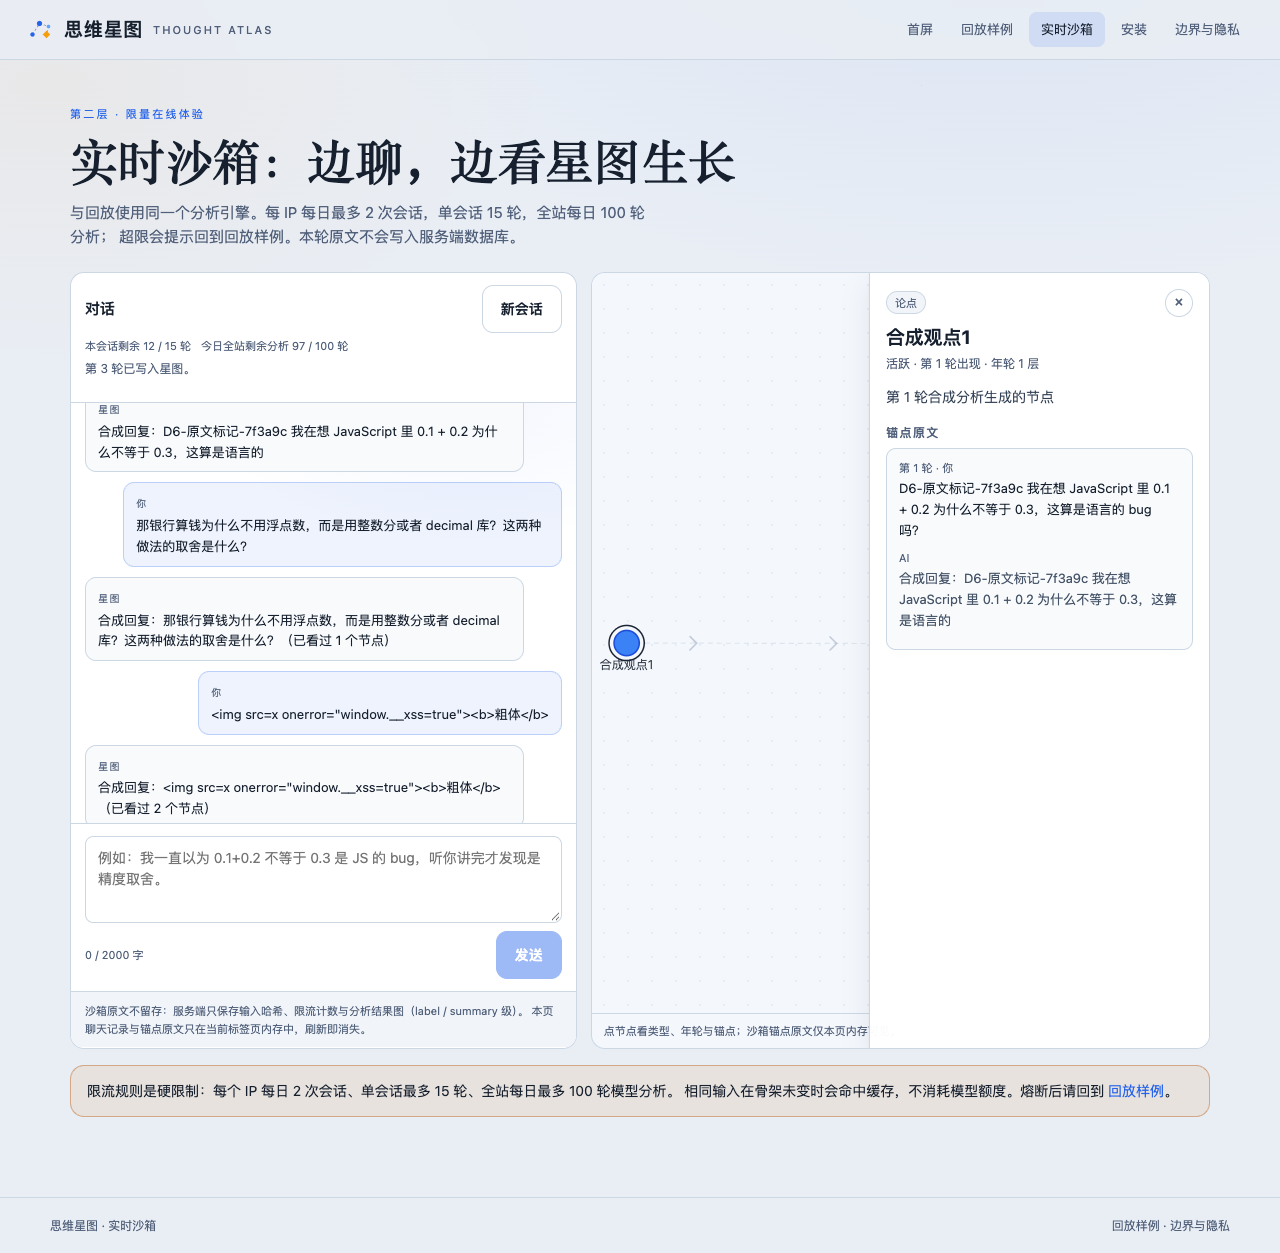
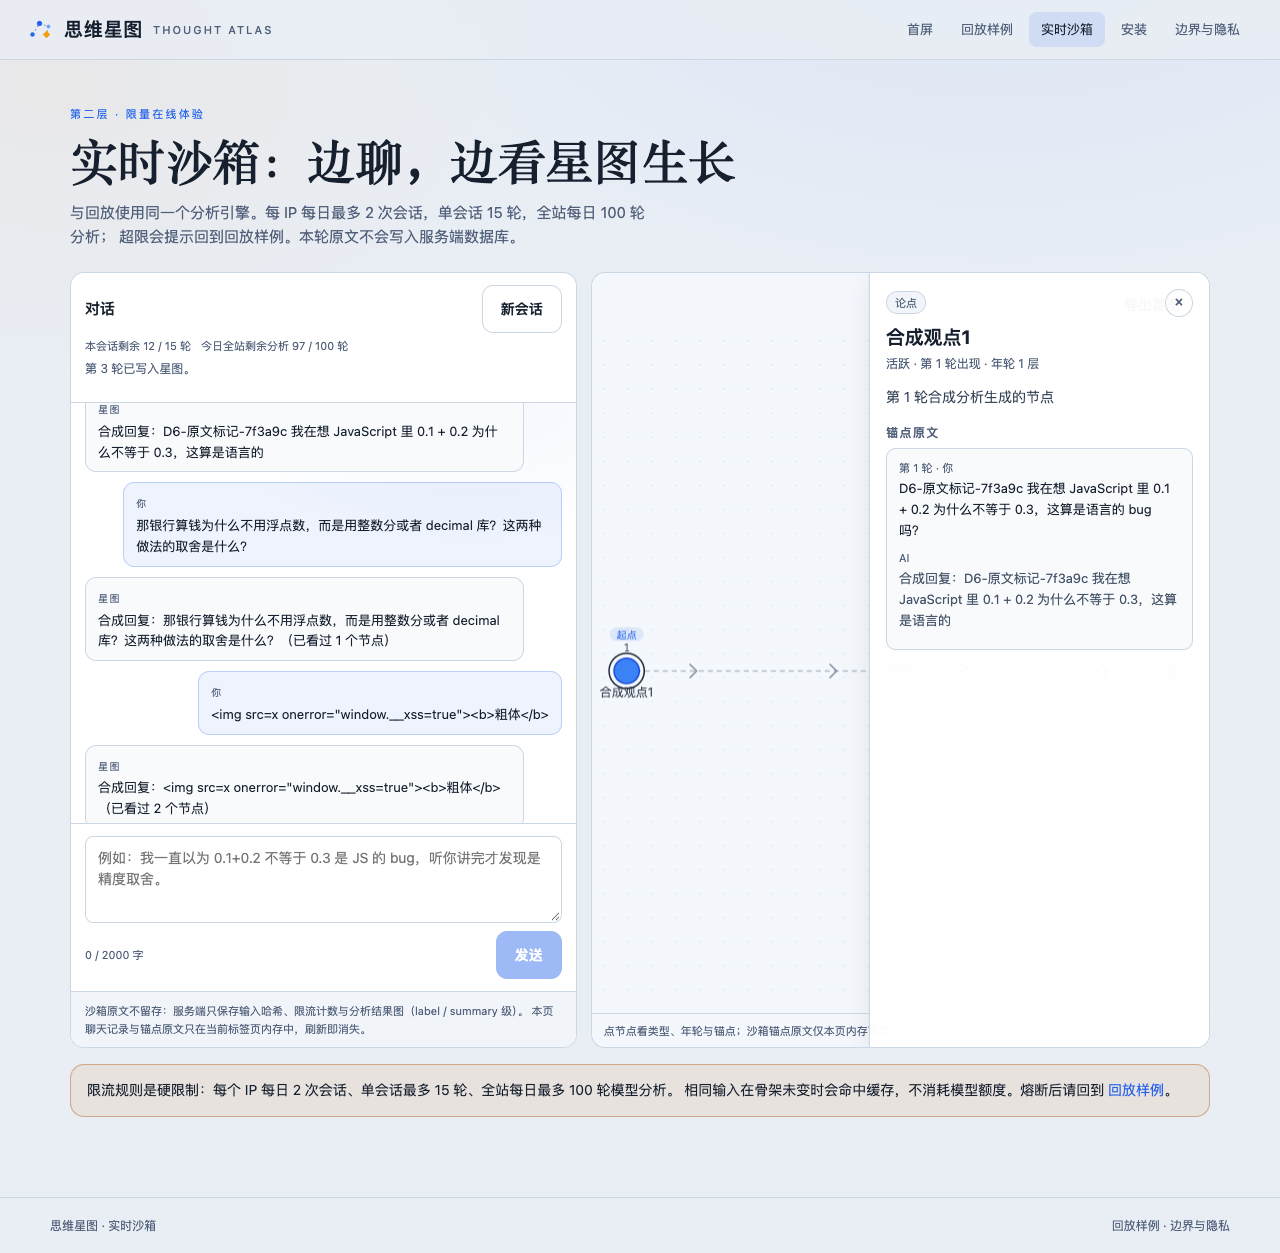
安装脚本化：setup.sh 一键装依赖/构建/600 配置模板，安装页文案改回现实
npm 发布版承诺改为赛后提供；已有配置不覆盖、Key 不读不打印；
桩验收与安装页截图在重建后重取，纠正旧文案取证。

Changed region(s): [[0.0625, 0.8404, 0.9062, 0.8715], [0.4688, 0.498, 0.5312, 0.5603]]

diff --git a/site/web/install.html b/site/web/install.html
@@ -34,11 +34,13 @@
 
       <div class="prose">
         <div class="command-block">
-          <span class="tag">发布版命令</span>
-          <code>npx thought-atlas@latest setup --codex --qoder</code>
+          <span class="tag">一键脚本 · 当前阶段</span>
+          <code>./setup.sh</code>
         </div>
         <p class="note">
-          这是随发布包提供的安装命令。当前仓库阶段以源码方式运行；D7 会用真实 agent 对话录制安装与“边聊边长图”的完整过程。
+          脚本完成依赖安装、前端构建，并生成 600 权限的配置模板（<code>~/.thought-atlas/config.json</code>）；
+          填上你自己的 Key 后启动守护进程即可。已有配置不会被覆盖。
+          npm 发布版（<code>npx thought-atlas setup</code>）赛后再提供；当前阶段以源码方式运行。
           如果你在评审当前仓库，请直接打开 <a href="/demo.html">回放样例</a> 与 <a href="/sandbox.html">实时沙箱</a>，它们使用同一份分析引擎。
         </p>
 
@@ -66,14 +68,14 @@
           其他 agent 只要实现一个解析器模块（<code>ParserModule</code>），watcher 与守护进程都不用改。
         </p>
 
-        <h2>源码方式（当前阶段）</h2>
+        <h2>脚本里做了什么（等价手动命令）</h2>
         <div class="command-block">
           <code>npm ci
 npm run build:web
 node packages/daemon/src/main.ts</code>
         </div>
         <p class="note">
-          需要 Node.js 24+ 与本机模型 Key。守护进程默认监听 <code>127.0.0.1:7788</code>，只绑定回环地址，不对局域网开放。
+          需要 Node.js 22.18+（推荐 24）与本机模型 Key。守护进程默认监听 <code>127.0.0.1:7788</code>，只绑定回环地址，不对局域网开放。
         </p>
 
         <h2>可选：手动标记与删除</h2>

diff --git a/CHANGELOG.md b/CHANGELOG.md
@@ -1,5 +1,20 @@
 # CHANGELOG
 
+## v0.8.0 — 星图导出分享卡 + 安装脚本化（2026-11-24）
+
+### 变更
+- 渲染器新增 `exportPng()`（强制当帧重绘后 toDataURL）；common.ts 新增 `downloadMapCard`：标题栏 + 星图 + 统计栏 + 来源标注合成分享卡并触发下载
+- 回放页时间轴栏与沙箱地图栏各加「导出星图」按钮：回放卡标注「合成演示数据」，沙箱卡标注「只含节点级摘要，不含对话原文」；沙箱空图时提示聊一轮再导出；沙箱渲染同步启用 stepOrder 序号
+- 新增 `setup.sh`：Node 22.18+ 检查、npm ci、build:web、生成 600 权限配置模板（apiKey 留空待用户自填）；已有配置跳过不覆盖、不读不打印 Key
+- 安装页文案改回现实：命令块 `./setup.sh`（一键脚本 · 当前阶段），npm 发布版明确「赛后再提供」；Node 门槛 24+ 改 22.18+（推荐 24）；「源码方式」改「脚本里做了什么（等价手动命令）」
+
+### 验证
+- typecheck 干净；125/125；build:site 通过
+- headless 下载实测：回放卡 130328B、沙箱桩卡 92427B，PNG 落盘、Console/页面异常 0；卡片像素复核（标题/序号/起点/统计/标注齐全）
+- setup.sh 实跑：npm ci + build:web 成功、已有配置跳过（Key 未触碰），日志 `evidence/d7-install/setup-run.log`
+- 桩实例 7791 全量验收绿（health.stub=true 自标注）；发现并纠正一次取证失误：install 文案改动晚于上次 build:site，首张安装页截图为旧文案，重建后重取重验
+- 新证据：`evidence/d7-export/`（card-demo-focus.png、card-sandbox-stub.png、demo-export-ui-1280.png）、`evidence/d7-install/`（install-1280.png、setup-run.log）
+
 ## v0.7.4 — 沙箱限流收紧：每日 2 会话、单会话 15 轮（2026-11-24）
 
 ### 变更
